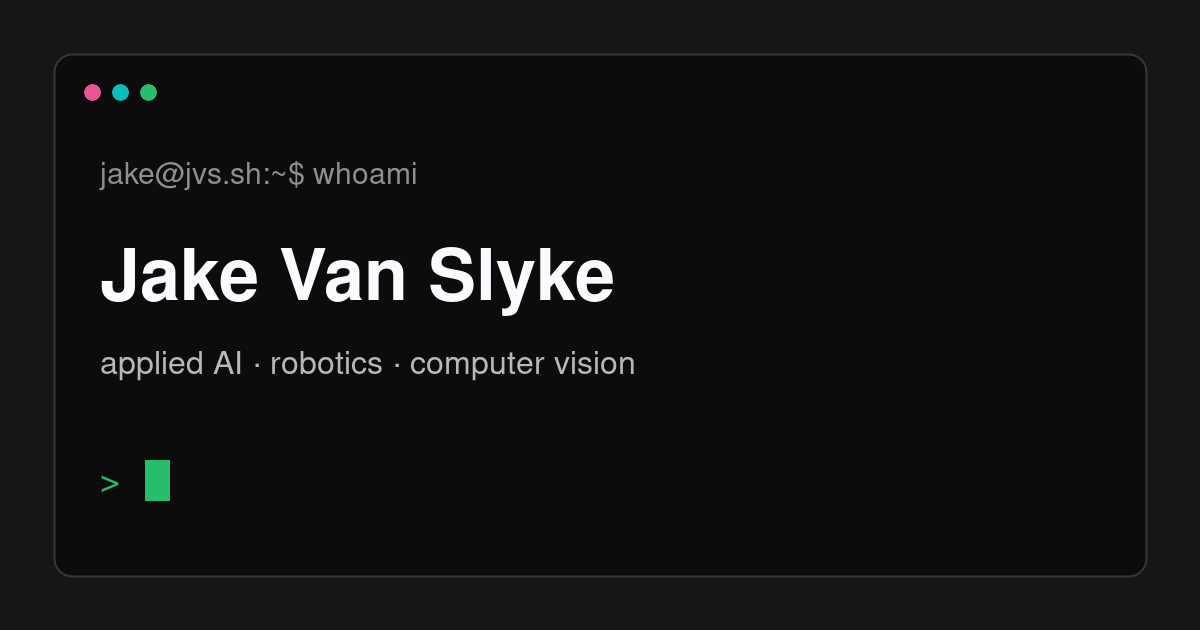
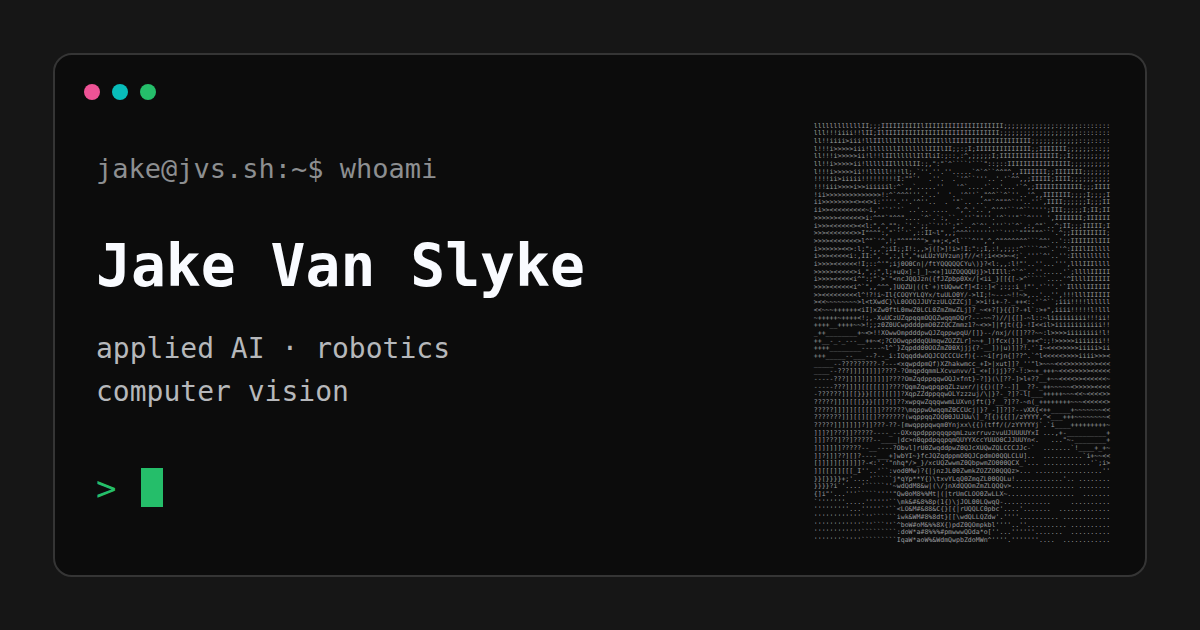
add ASCII social preview and harden site delivery

diff --git a/public/scripts/contact.js b/public/scripts/contact.js
@@ -1,0 +1,55 @@
+const form = document.getElementById('contact-form');
+const statusElement = document.getElementById('form-status');
+const submitButton = form?.querySelector('button[type="submit"]');
+
+if (!(form instanceof HTMLFormElement)
+  || !(statusElement instanceof HTMLElement)
+  || !(submitButton instanceof HTMLButtonElement)) {
+  throw new Error('Contact form markup is incomplete');
+}
+
+const messages = {
+  sent: 'Message sent — thanks!',
+  invalid: 'Please check the fields and try again.',
+  blocked: 'Bot check failed — please retry.',
+  error: 'Something went wrong — please try again later.',
+};
+
+const isContactResponse = (value) => {
+  if (typeof value !== 'object' || value === null || typeof Reflect.get(value, 'ok') !== 'boolean') return false;
+  const errors = Reflect.get(value, 'errors');
+  return errors === undefined
+    || (typeof errors === 'object'
+      && errors !== null
+      && Object.values(errors).every((message) => typeof message === 'string'));
+};
+
+// No-JS fallback lands back here with ?status=... (success goes to /contact/sent)
+const initial = new URLSearchParams(location.search).get('status');
+if (initial && messages[initial]) statusElement.textContent = messages[initial];
+
+form.addEventListener('submit', async (event) => {
+  event.preventDefault();
+  statusElement.textContent = 'sending…';
+  submitButton.disabled = true;
+  try {
+    const response = await fetch(form.action, {
+      method: 'POST',
+      body: new FormData(form),
+      headers: { accept: 'application/json' },
+    });
+    const data = await response.json();
+    if (!isContactResponse(data)) throw new Error('Unexpected contact response');
+    if (data.ok) {
+      form.reset();
+      statusElement.textContent = messages.sent;
+    } else {
+      statusElement.textContent = Object.values(data.errors ?? {}).join(' ') || messages.error;
+    }
+  } catch {
+    statusElement.textContent = messages.error;
+  } finally {
+    submitButton.disabled = false;
+  }
+  window.turnstile?.reset?.();
+});

diff --git a/src/styles/global.css b/src/styles/global.css
@@ -2,28 +2,28 @@
 
 @font-face {
   font-family: '0xProto';
-  src: url('/fonts/0xproto-regular.woff2') format('woff2');
+  src: url('/fonts/0xproto-regular.woff2?v=27e7e134') format('woff2');
   font-weight: 400;
   font-style: normal;
   font-display: swap;
 }
 @font-face {
   font-family: '0xProto';
-  src: url('/fonts/0xproto-bold.woff2') format('woff2');
+  src: url('/fonts/0xproto-bold.woff2?v=8767012b') format('woff2');
   font-weight: 700;
   font-style: normal;
   font-display: swap;
 }
 @font-face {
   font-family: '0xProto';
-  src: url('/fonts/0xproto-italic.woff2') format('woff2');
+  src: url('/fonts/0xproto-italic.woff2?v=473466bf') format('woff2');
   font-weight: 400;
   font-style: italic;
   font-display: swap;
 }
 @font-face {
   font-family: '0xProto Icons';
-  src: url('/fonts/0xproto-icons.woff2') format('woff2');
+  src: url('/fonts/0xproto-icons.woff2?v=c1d1924b') format('woff2');
   font-display: swap;
   unicode-range: U+E000-F8FF;
 }

diff --git a/src/lib/contact-endpoint.ts b/src/lib/contact-endpoint.ts
@@ -65,10 +65,19 @@ export async function handleContactRequest(
   dependencies: ContactEndpointDependencies,
 ): Promise<Response> {
   const wantsJson = request.headers.get('accept')?.includes('application/json') ?? false;
-  const respond = (status: number, body: Record<string, unknown>, redirectTo: string) =>
-    wantsJson
+  const respond = (status: number, body: Record<string, unknown>, redirectTo: string) => {
+    const response = wantsJson
       ? Response.json(body, { status })
       : redirect(redirectTo);
+    const headers = new Headers(response.headers);
+    headers.set('cache-control', 'no-store');
+    headers.set('x-content-type-options', 'nosniff');
+    return new Response(response.body, {
+      status: response.status,
+      statusText: response.statusText,
+      headers,
+    });
+  };
 
   const contentLength = Number(request.headers.get('content-length'));
   if (Number.isFinite(contentLength) && contentLength > MAX_FORM_BYTES) {

diff --git a/src/lib/contact-endpoint.test.ts b/src/lib/contact-endpoint.test.ts
@@ -120,6 +120,8 @@ describe('handleContactRequest', () => {
     const response = await handleContactRequest(makeRequest(), redirect, dependencies);
 
     expect(response.status).toBe(200);
+    expect(response.headers.get('cache-control')).toBe('no-store');
+    expect(response.headers.get('x-content-type-options')).toBe('nosniff');
     await expect(response.json()).resolves.toEqual({ ok: true });
     expect(fetcher).toHaveBeenCalledOnce();
     expect(fetcher).toHaveBeenCalledWith(
@@ -158,5 +160,6 @@ describe('handleContactRequest', () => {
 
     expect(response.status).toBe(303);
     expect(response.headers.get('location')).toBe('/contact/sent/');
+    expect(response.headers.get('cache-control')).toBe('no-store');
   });
 });
